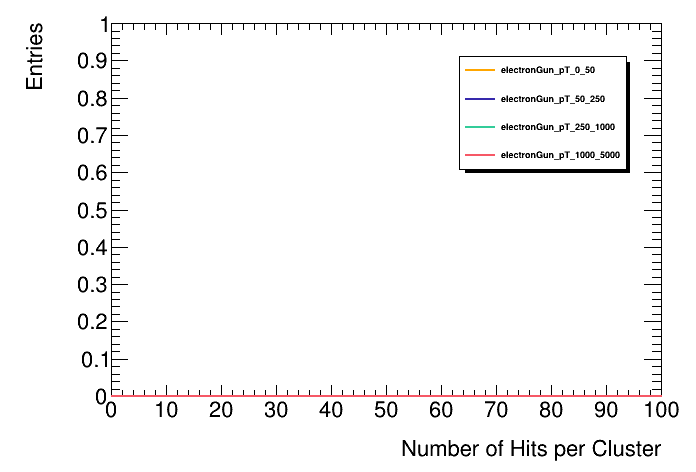
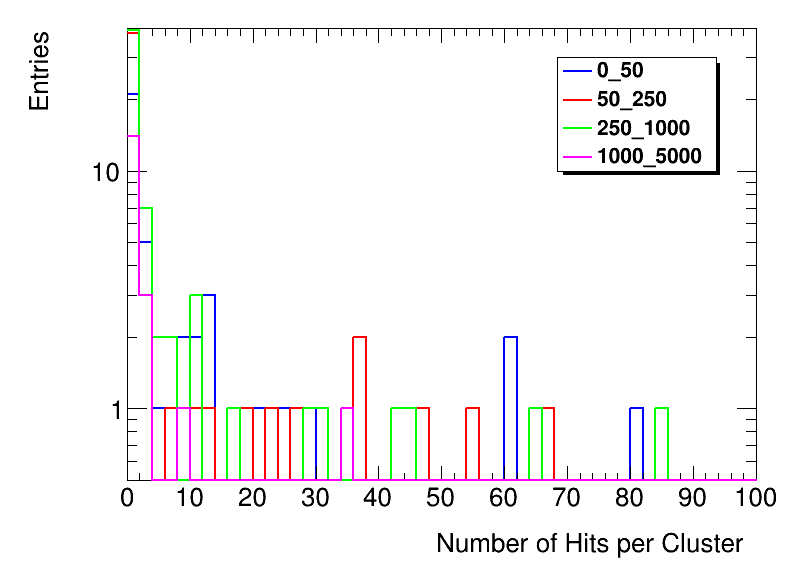
troubleshooting

diff --git a/electronShowerStudies2.py b/electronShowerStudies2.py
@@ -9,7 +9,7 @@ import numpy as np
 ROOT.gROOT.SetBatch()
 
 # Set up some options
-max_events = 10
+max_events = -1
 
 import os
 
@@ -140,7 +140,7 @@ def calculate_rms_width(hit_positions, hit_energies, center):
     
     return math.sqrt(weighted_r_squared / total_energy)
 
-def find_shower_start_layer(energy_by_layer, threshold=0.05):
+def find_shower_start_layer(energy_by_layer, threshold=0.01):
     """Find first layer with significant energy deposition"""
     if not energy_by_layer:
         return -1
@@ -355,17 +355,17 @@ for slice_name in files:
                     if cluster_hit_energies:
                         max_energy = max(cluster_hit_energies)
                         max_cluster_energies.append(max_energy)
-
+                        max_energy = max(max_cluster_energies) if max_cluster_energies else 0 
                 except Exception as e:
                     pass  # ECAL collection not available
-            print("Maximum cell energy per ECAL collection:", max_cluster_energies)
+            #print("Maximum cell energy per ECAL collection:", max_cluster_energies)
             
             try:
                 collection_names = event.getCollectionNames()
                 if "PandoraPFOs" not in collection_names:
                     continue
                 pfoCollection = event.getCollection('PandoraPFOs')
-                print(f"Found {len(pfoCollection)} PFOs")  # Debug
+                #print(f"Found {len(pfoCollection)} PFOs")  # Debug
                 if pfoCollection is None:
                     continue
                 pfos = []
@@ -377,7 +377,7 @@ for slice_name in files:
                     try:
                         if abs(pfo.getCharge()) > 0.5:  # Charged PFO
                             pfo_clusters = pfo.getClusters()
-                            print(f"PFO has {len(pfo_clusters)} clusters")  # Debug
+                            #print(f"PFO has {len(pfo_clusters)} clusters")  # Debug
                             clusters = []
                             for i in range(len(pfo_clusters)):
                                 cluster  = pfo_clusters[i]
@@ -386,7 +386,7 @@ for slice_name in files:
                             for cluster in clusters:
                                 pfo_hit_energies_by_layer = {}
                                 hits = cluster.getCalorimeterHits()
-                                print(f"Cluster has {len(hits)} hits")
+                                #print(f"Cluster has {len(hits)} hits")
                                 if len(hits) == 0:
                                     continue
                                 hit_list = []
@@ -397,44 +397,33 @@ for slice_name in files:
                                             hit_list.append(hit)
                                     except:
                                         continue
-                                print(f"hit_list has {len(hit_list)} hits")
-                                for i, hit in enumerate(hit_list):
-                                    print(f"Hit {i}: {hit}")
-                                    print(f"Hit type: {type(hit)}")
-                                    print(f"Hit is None: {hit is None}")
-                                    if hit is not None:
+                                    for i, hit in enumerate(hit_list):
                                         try:
                                             hit_pos = hit.getPosition()
-                                            print(f"YAY! Position is: {pos}")
-                                        except Exception as e:
-                                            print(f"error type: {type(e)}")
-                                    if i>2:
-                                        break
-                                        hit_energy = hit.getEnergy()
-                                        if hit_pos is None or hit_energy <= 0:
-                                            continue
-                                        cellID = int(hit.getCellID0())
-                                        ecal_coll = ['EcalBarrelCollectionRec', 'EcalEndcapCollectionRec']
-                                        layer_found = false
-                                        for coll in ecal_coll:
-                                            if layer_found:
-                                                break
-                                            try:
-                                                ECALhitCollection = event.getCollection(coll)
-                                                encoding = ECALhitCollection.getParameters().getStringVal(EVENT.LCIO.CellIDEncoding)
-                                                decoder = UTIL.BitField64(encoding)
-                                                decoder.setValue(cellID)
-                                                layer = decoder["layer"].value()
-                                        
-                                                if layer not in pfo_hit_energies_by_layer:
-                                                    pfo_hit_energies_by_layer[layer] = 0.0
-                                                pfo_hit_energies_by_layer[layer] += hit_energy
-                                                layer_found = True
-                                            except Exception as e:
+                                            hit_energy = hit.getEnergy()
+                                            if hit_pos is None or hit_energy <= 0:
                                                 continue
-                                    #except Exception as e:
-                                        #continue
-
+                                            cellID = int(hit.getCellID0())
+                                            ecal_coll = ['EcalBarrelCollectionRec', 'EcalEndcapCollectionRec']
+                                            layer_found = False
+                                            for coll in ecal_coll:
+                                                if layer_found:
+                                                    break
+                                                try:
+                                                    ECALhitCollection = event.getCollection(coll)
+                                                    encoding = ECALhitCollection.getParameters().getStringVal(EVENT.LCIO.CellIDEncoding)
+                                                    decoder = UTIL.BitField64(encoding)
+                                                    decoder.setValue(cellID)
+                                                    layer = decoder["layer"].value()
+                                        
+                                                    if layer not in pfo_hit_energies_by_layer:
+                                                        pfo_hit_energies_by_layer[layer] = 0.0
+                                                    pfo_hit_energies_by_layer[layer] += hit_energy
+                                                    layer_found = True
+                                                except Exception as e:
+                                                    continue
+                                        except Exception as e:
+                                            continue 
                                 if pfo_hit_energies_by_layer:
                                     pfo_shower_start_layer = find_shower_start_layer(pfo_hit_energies_by_layer, threshold=0.05)
                                     if pfo_shower_start_layer >= 0:
